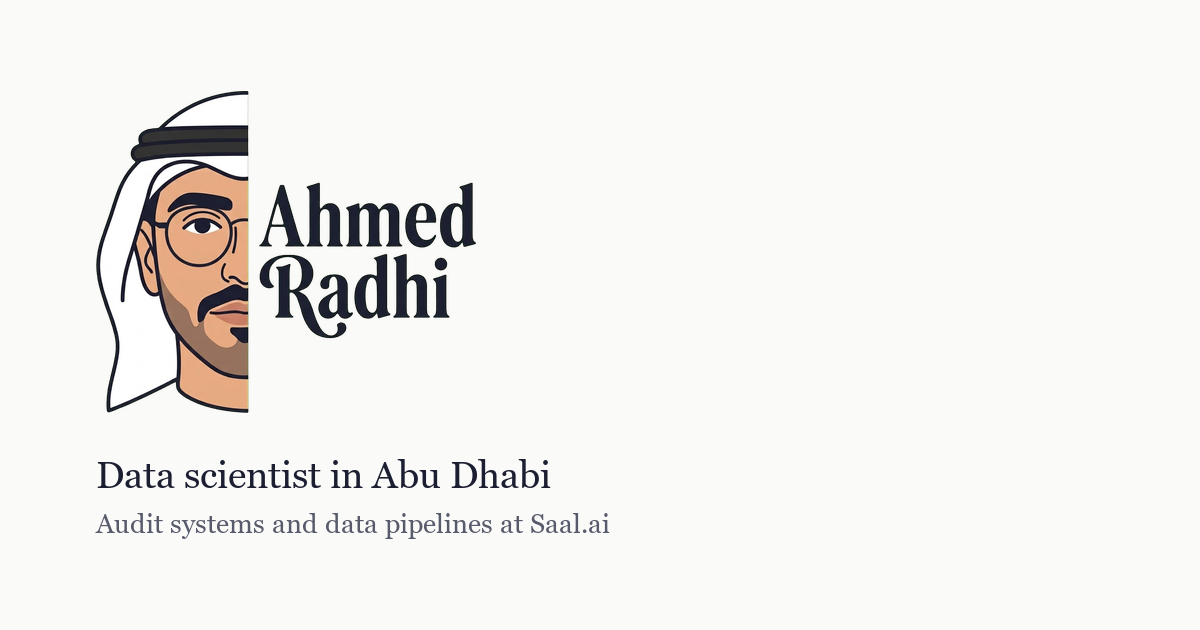
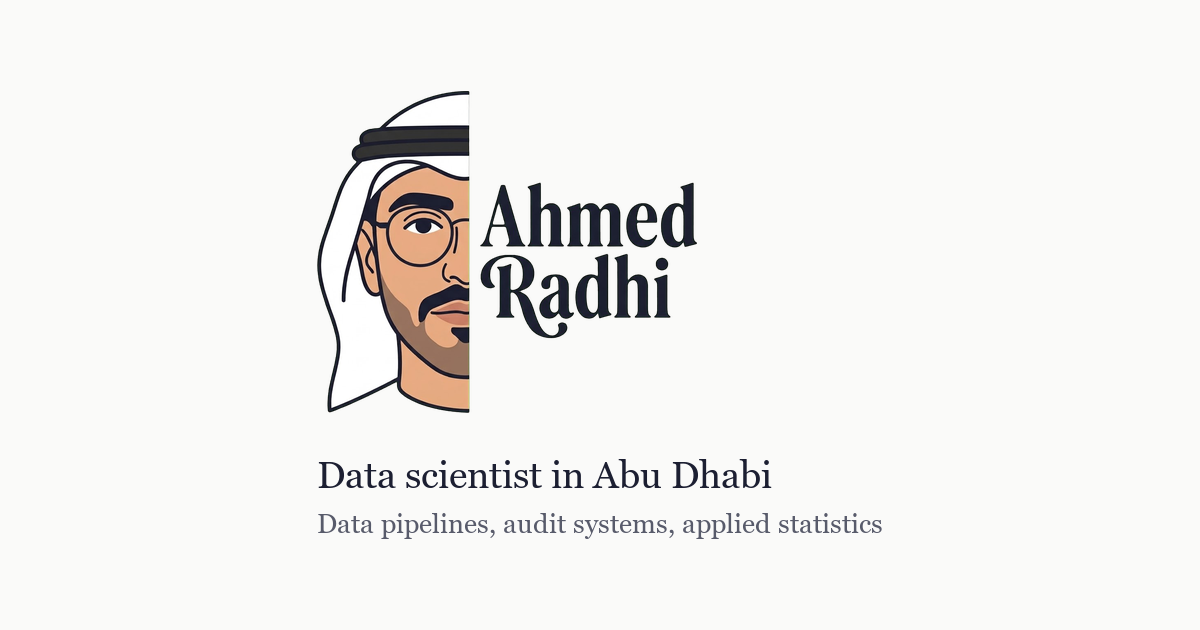
fix(content): drop Saal.ai present tense before role ends; centre OG card for centre-crop
Ahmed's Saal.ai role ends 2026-09-23. Move all present-tense claims about
that employer to past tense (or drop the employer name from forward-looking
copy) so the page doesn't go stale on that date. Saal.ai itself stays fully
visible and dated in the timeline and Selected Work.

- data/experience.json: Saal.ai Graduate Trainee role endDate "Present" ->
  "2026-09", displayDate -> "Sep 2024 -- Sep 2026". js/timeline.js sorts
  experience entries on startDate, not endDate, so nothing moves on the
  timeline.
- data/profile.json: tagline drops "at Saal.ai".
- data/summary.json: "I am the primary developer... I have worked on..."
  -> "I was the primary developer... I worked on...".
- data/settings.json meta.description rewritten without the employer name;
  index.html's plain description, og:description, and twitter:description
  updated to match verbatim, per the existing sync rule.
- tools/make_og_image.py: DETAIL text drops "at Saal.ai".

Also fixes the OG card's centre-crop failure: WhatsApp/iMessage unfurl
previews centre-crop the 1200x630 card to a 630x630 square, and the
previous hard-left-anchored block (x=96, ~55% empty ground on the right)
put the wordmark's face entirely outside that crop. tools/make_og_image.py
now measures the widest element (wordmark or either text line) and centres
that block on the canvas midline (x=600), matching the crop's own centre.
Verified by re-running the crop simulation and looking at the result: face,
[…]

diff --git a/index.html b/index.html
@@ -24,13 +24,13 @@
 </script>
 
 <title>Ahmed Alawi Radhi, Data Scientist</title>
-<meta name="description" content="Data scientist in Abu Dhabi. Procurement audit systems and data pipelines at Saal.ai. Applied mathematics and statistics, Khalifa University.">
+<meta name="description" content="Data scientist in Abu Dhabi building data pipelines and audit systems. Applied Mathematics and Statistics, Khalifa University.">
 <link rel="canonical" href="https://7mxd.github.io/">
 
 <meta property="og:type" content="website">
 <meta property="og:locale" content="en_US">
 <meta property="og:title" content="Ahmed Alawi Radhi, Data Scientist">
-<meta property="og:description" content="Data scientist in Abu Dhabi. Procurement audit systems and data pipelines at Saal.ai. Applied mathematics and statistics, Khalifa University.">
+<meta property="og:description" content="Data scientist in Abu Dhabi building data pipelines and audit systems. Applied Mathematics and Statistics, Khalifa University.">
 <meta property="og:image" content="https://7mxd.github.io/assets/og-image.png">
 <meta property="og:image:width" content="1200">
 <meta property="og:image:height" content="630">
@@ -38,7 +38,7 @@
 <meta property="og:site_name" content="Ahmed Alawi Radhi">
 <meta name="twitter:card" content="summary_large_image">
 <meta name="twitter:title" content="Ahmed Alawi Radhi, Data Scientist">
-<meta name="twitter:description" content="Data scientist in Abu Dhabi. Procurement audit systems and data pipelines at Saal.ai. Applied mathematics and statistics, Khalifa University.">
+<meta name="twitter:description" content="Data scientist in Abu Dhabi building data pipelines and audit systems. Applied Mathematics and Statistics, Khalifa University.">
 <meta name="twitter:image" content="https://7mxd.github.io/assets/og-image.png">
 
 <link rel="icon" type="image/png" sizes="32x32" href="assets/favicon-32x32.png">

diff --git a/tools/make_og_image.py b/tools/make_og_image.py
@@ -14,9 +14,8 @@ MUTED = (88, 91, 107)
 
 SIZE = (1200, 630)
 SUBTITLE = "Data scientist in Abu Dhabi"
-DETAIL = "Audit systems and data pipelines at Saal.ai"
+DETAIL = "Data pipelines, audit systems, applied statistics"
 
-LEFT_MARGIN = 96
 WORDMARK_WIDTH = 380
 GAP_WORDMARK_TO_SUBTITLE = 40
 GAP_SUBTITLE_TO_DETAIL = 20
@@ -40,17 +39,25 @@ def main():
     # square (924x782), not a wide horizontal logotype, so it cannot be
     # scaled to the width the first draft assumed (620px) without its
     # height alone exceeding the 630px card. Every element below is
-    # measured and stacked, then the whole block is centred vertically so
-    # the whitespace above the wordmark equals the whitespace below the
-    # last line of text.
+    # measured, then the whole block is centred both vertically (top
+    # margin equals bottom margin) and horizontally (block centred on the
+    # canvas midline, x=600). Horizontal centring matters beyond symmetry:
+    # WhatsApp and iMessage unfurl previews centre-crop the card to a
+    # 630x630 square (x=285..915). A block anchored hard left, as the
+    # first draft did, put the wordmark's face entirely to the left of
+    # that crop and left only text fragments inside it. Centring the
+    # block on the canvas midline keeps it centred on the crop too, since
+    # the crop is itself centred on that midline.
     wordmark = Image.open(ROOT / "assets" / "brand" / "logo-wordmark.png")
     scale = WORDMARK_WIDTH / wordmark.width
     wordmark = wordmark.resize((WORDMARK_WIDTH, round(wordmark.height * scale)), Image.LANCZOS)
 
     subtitle_font = load_font(38)
     detail_font = load_font(27)
-    subtitle_h = draw.textbbox((0, 0), SUBTITLE, font=subtitle_font)[3]
-    detail_h = draw.textbbox((0, 0), DETAIL, font=detail_font)[3]
+    subtitle_bbox = draw.textbbox((0, 0), SUBTITLE, font=subtitle_font)
+    detail_bbox = draw.textbbox((0, 0), DETAIL, font=detail_font)
+    subtitle_w, subtitle_h = subtitle_bbox[2], subtitle_bbox[3]
+    detail_w, detail_h = detail_bbox[2], detail_bbox[3]
 
     content_h = (
         wordmark.height
@@ -61,15 +68,21 @@ def main():
     )
     top = (SIZE[1] - content_h) // 2
 
-    card.paste(wordmark, (LEFT_MARGIN, top), wordmark)
+    block_w = max(wordmark.width, subtitle_w, detail_w)
+    left = (SIZE[0] - block_w) // 2
+
+    card.paste(wordmark, (left, top), wordmark)
     subtitle_y = top + wordmark.height + GAP_WORDMARK_TO_SUBTITLE
     detail_y = subtitle_y + subtitle_h + GAP_SUBTITLE_TO_DETAIL
-    draw.text((LEFT_MARGIN, subtitle_y), SUBTITLE, font=subtitle_font, fill=INK)
-    draw.text((LEFT_MARGIN, detail_y), DETAIL, font=detail_font, fill=MUTED)
+    draw.text((left, subtitle_y), SUBTITLE, font=subtitle_font, fill=INK)
+    draw.text((left, detail_y), DETAIL, font=detail_font, fill=MUTED)
 
     out = ROOT / "assets" / "og-image.png"
     card.save(out, "PNG", optimize=True)
-    print(f"{out} {card.size} {out.stat().st_size // 1024}KB top-margin={top}px")
+    print(
+        f"{out} {card.size} {out.stat().st_size // 1024}KB "
+        f"top-margin={top}px block=({left},{top})-({left + block_w},{top + content_h})"
+    )
 
 
 if __name__ == "__main__":
